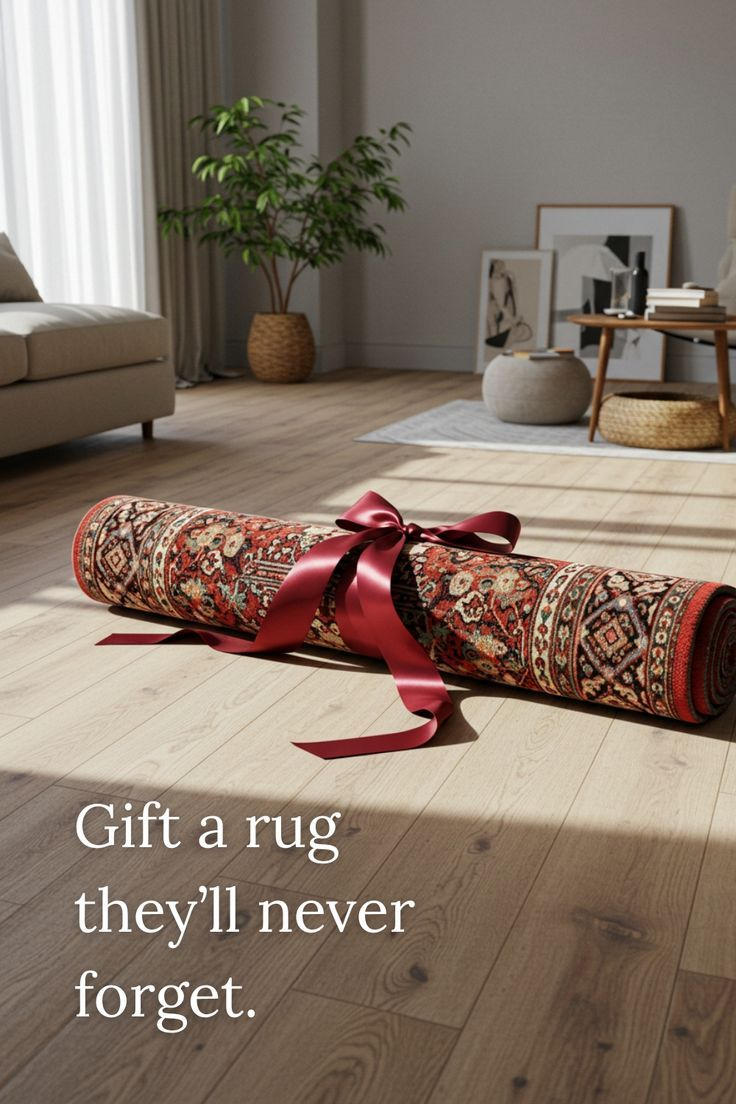
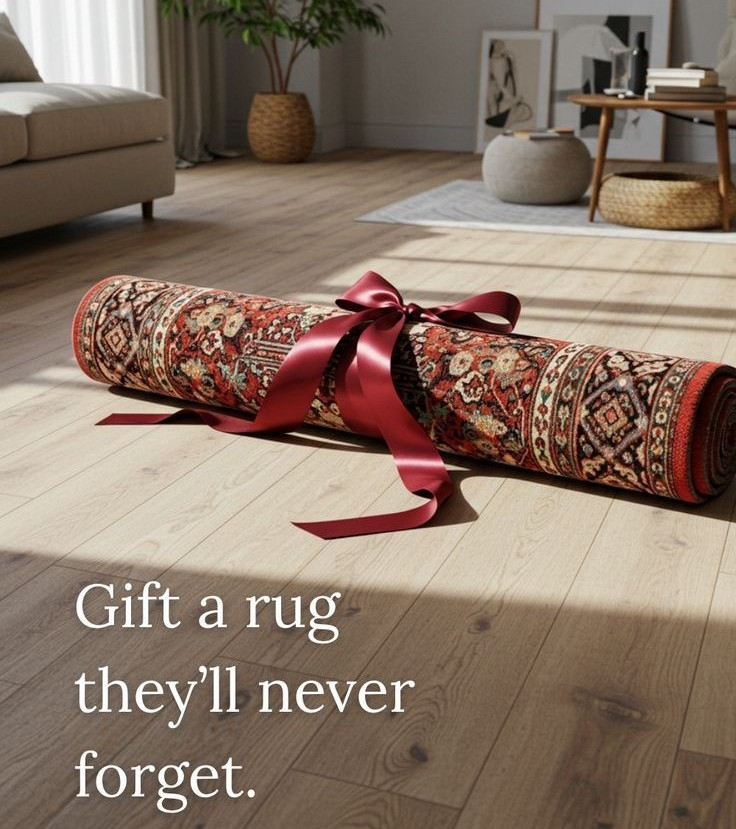
img chng

diff --git a/components/sections/Slider4.js b/components/sections/Slider4.js
@@ -37,9 +37,9 @@ export default function Slider4() {
                         </div>
                         <div className="swiper-container sliderthree-active">
                             <Swiper {...swiperOptions}>
-                                <SwiperSlide className="  slider-bg-four">
+                                <SwiperSlide style={{ backgroundImage: "url('assets/img/slider/1.png')" }} className="  slider-bg-four">
                                     <div className="row align-items-center">
-                                        <div className="col-xl-6 col-lg-6 col-md-12">
+                                        <div className="">
                                             <div className="tpslidertwo__item slidre-item-4 ml-145 text-center">
                                                 <div className="tpslidertwo__content">
                                                     <h3 className="tpslidertwo__title mb-10">Will Never <br /> Compromise Quality</h3>
@@ -52,17 +52,13 @@ export default function Slider4() {
                                                 </div>
                                             </div>
                                         </div>
-                                        <div className="col-xl-6 col-lg-6 d-none d-lg-block">
-                                            <div className="tpslidertwo__img p-relative pt-80 pb-80">
-                                                <img src="assets/img/slider/slider-bg-04.png" alt="" />
-                                            </div>
-                                        </div>
+
                                         <div className="tpsliderthree__pagination" />
                                     </div>
                                 </SwiperSlide>
-                                <SwiperSlide className="  slider-bg-four">
+                                <SwiperSlide style={{ backgroundImage: "url('assets/img/slider/3.png')" }} className="  slider-bg-four">
                                     <div className="row align-items-center">
-                                        <div className="col-xl-6 col-lg-6 col-md-12">
+                                        <div className="">
                                             <div className="tpslidertwo__item slidre-item-4 ml-145 text-center">
                                                 <div className="tpslidertwo__content">
                                                     <h3 className="tpslidertwo__title mb-10">Will Never <br /> Compromise Comfort</h3>
@@ -75,17 +71,16 @@ export default function Slider4() {
                                                 </div>
                                             </div>
                                         </div>
-                                        <div className="col-xl-6 col-lg-6 d-none d-lg-block">
-                                            <div className="tpslidertwo__img p-relative pt-80 pb-80">
-                                                <img src="assets/img/slider/slider-bg-05.png" alt="" />
-                                            </div>
-                                        </div>
-                                        {/* <div className="tpsliderthree__pagination" /> */}
+
+                                        <div className="tpsliderthree__pagination" />
                                     </div>
                                 </SwiperSlide>
-                                <SwiperSlide className="  slider-bg-four">
+
+
+
+                                <SwiperSlide style={{ backgroundImage: "url('assets/img/slider/2.png')" }} className="  slider-bg-four">
                                     <div className="row align-items-center">
-                                        <div className="col-xl-6 col-lg-6 col-md-12">
+                                        <div className="">
                                             <div className="tpslidertwo__item slidre-item-4 ml-145 text-center">
                                                 <div className="tpslidertwo__content">
                                                     <h3 className="tpslidertwo__title mb-10">Will Never <br /> Compromise Beauty</h3>
@@ -98,14 +93,11 @@ export default function Slider4() {
                                                 </div>
                                             </div>
                                         </div>
-                                        <div className="col-xl-6 col-lg-6 d-none d-lg-block">
-                                            <div className="tpslidertwo__img p-relative pt-80 pb-80">
-                                                <img src="assets/img/slider/slider-bg-06.png" alt="" />
-                                            </div>
-                                        </div>
-                                        {/* <div className="tpsliderthree__pagination" /> */}
+
+                                        <div className="tpsliderthree__pagination" />
                                     </div>
                                 </SwiperSlide>
+
                             </Swiper>
                         </div>
                     </div>

diff --git a/components/sections/Blog3.js b/components/sections/Blog3.js
@@ -34,7 +34,7 @@ export default function Blog3() {
                                         </ul>
                                     </div>
                                     <h4 className="blogitem__title mb-15">
-                                        <Link href="/">Here is why you cannot miss EORS 15</Link>
+                                        <Link href="/">Here is why you cannot the vibe</Link>
                                     </h4>
                                 </div>
                             </div>
@@ -60,7 +60,7 @@ export default function Blog3() {
                                         </ul>
                                     </div>
                                     <h4 className="blogitem__title">
-                                        <Link href="/">Myntra launches international brand DeFacto</Link>
+                                        <Link href="/">MG launches carpet brand Crown Weave</Link>
                                     </h4>
                                 </div>
                             </div>